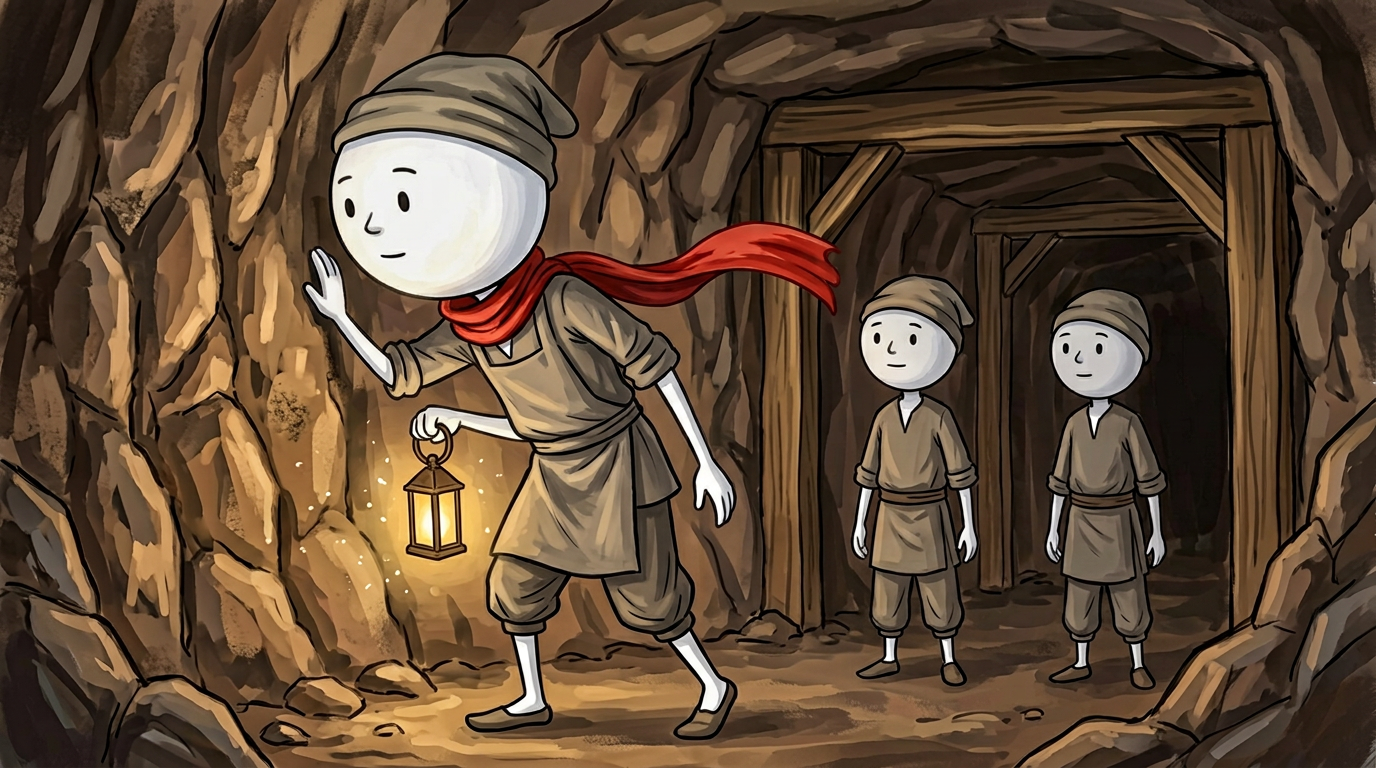
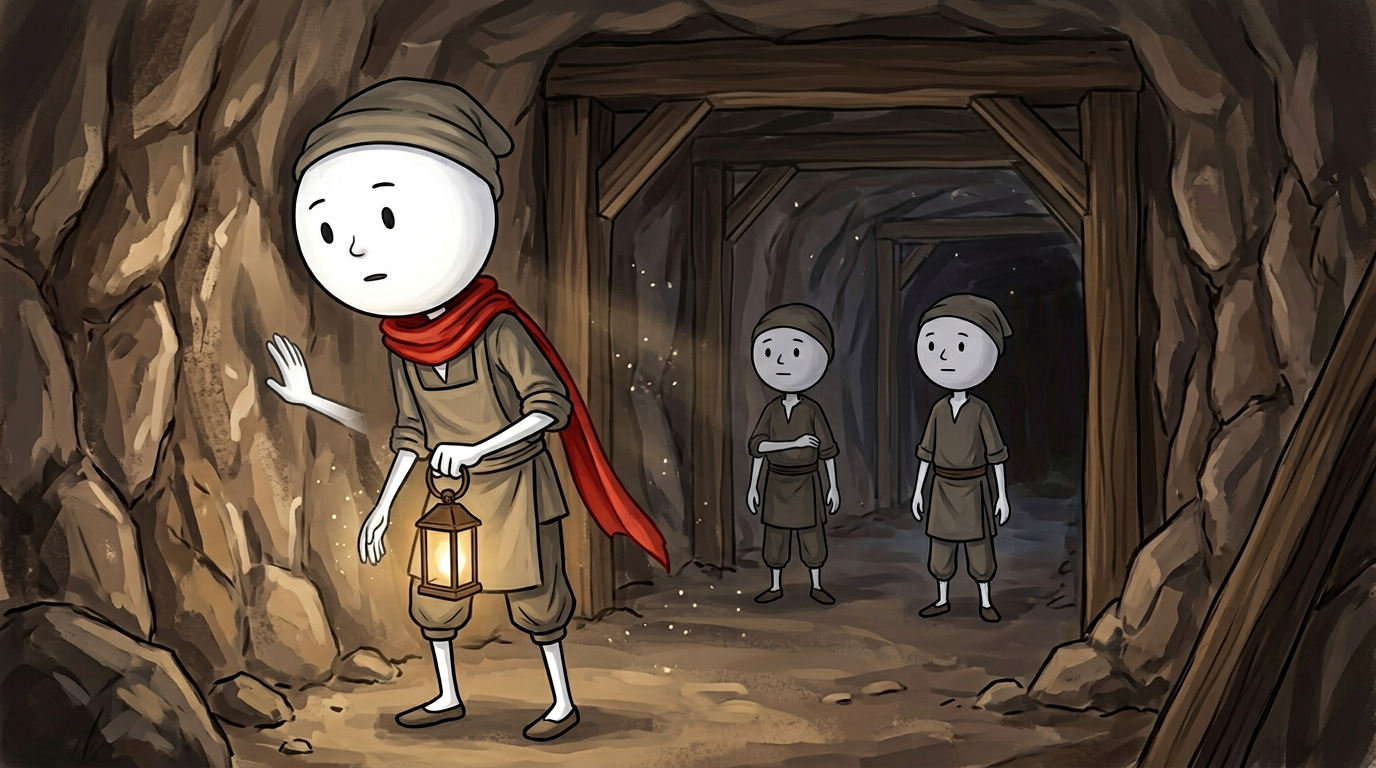
feat(b033): image group 3 QA - 24/25 PASS, only s13b regen remains

diff --git a/bolumler/033-istanbul-fethi-lagimci/GORSEL-QA-GRUP3.md b/bolumler/033-istanbul-fethi-lagimci/GORSEL-QA-GRUP3.md
@@ -1,0 +1,8 @@
+# B033 — Görsel QA Grup 3 (s12–s20)
+
+## PASS (toplam 24/25)
+- s12 (ikinci üretim: herkes giyinik, subay yemeni, kollar görünür), s16 (ikinci üretim: gizli figür yok, fener Meraklı'nın elinde), s17, s18, s19, s19b, s20 — 1920×1080 normalize.
+- s17/s20'deki uzak şehir silüeti 1453 Konstantinopolis'i olarak notlu; yakın planda dönem ihlali yok.
+
+## FAIL → son yeniden (1)
+- **s13b:** Meraklı düzeldi (el duvara değmiyor) ama arkadaki küçük figürde kollar çapraz/katlı. Kollar yanda ayrı olacak şekilde yeniden.
